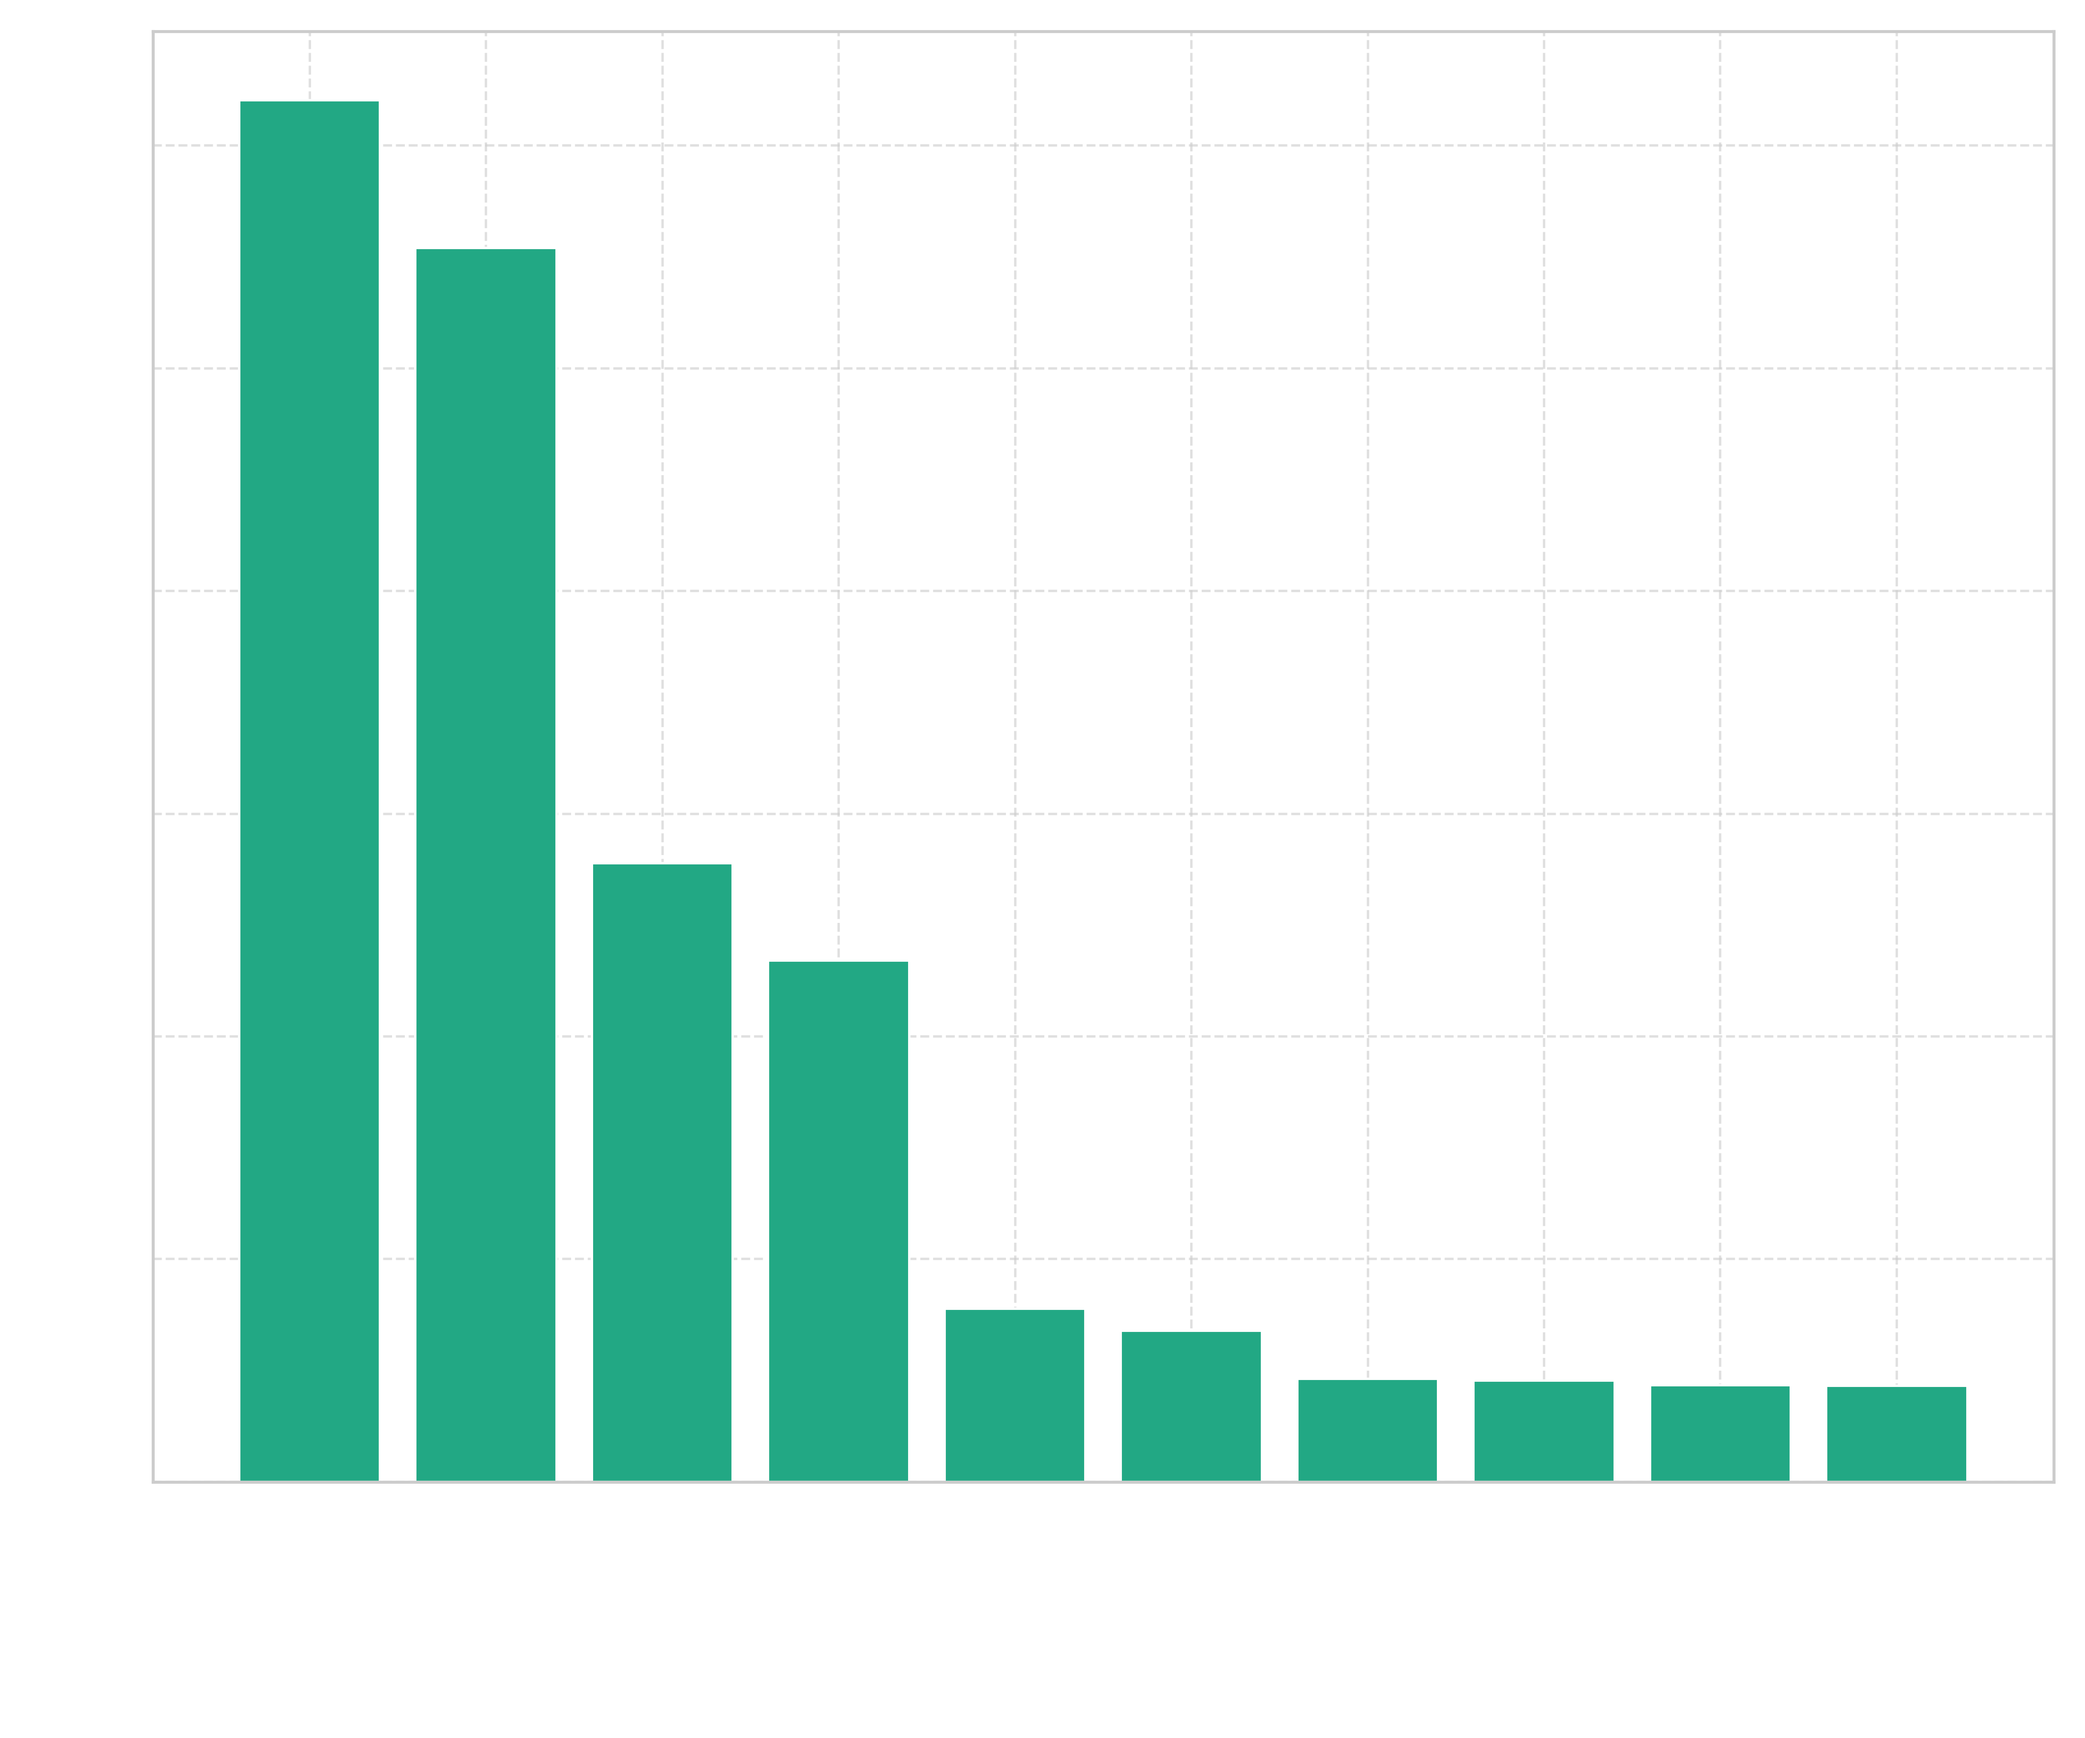
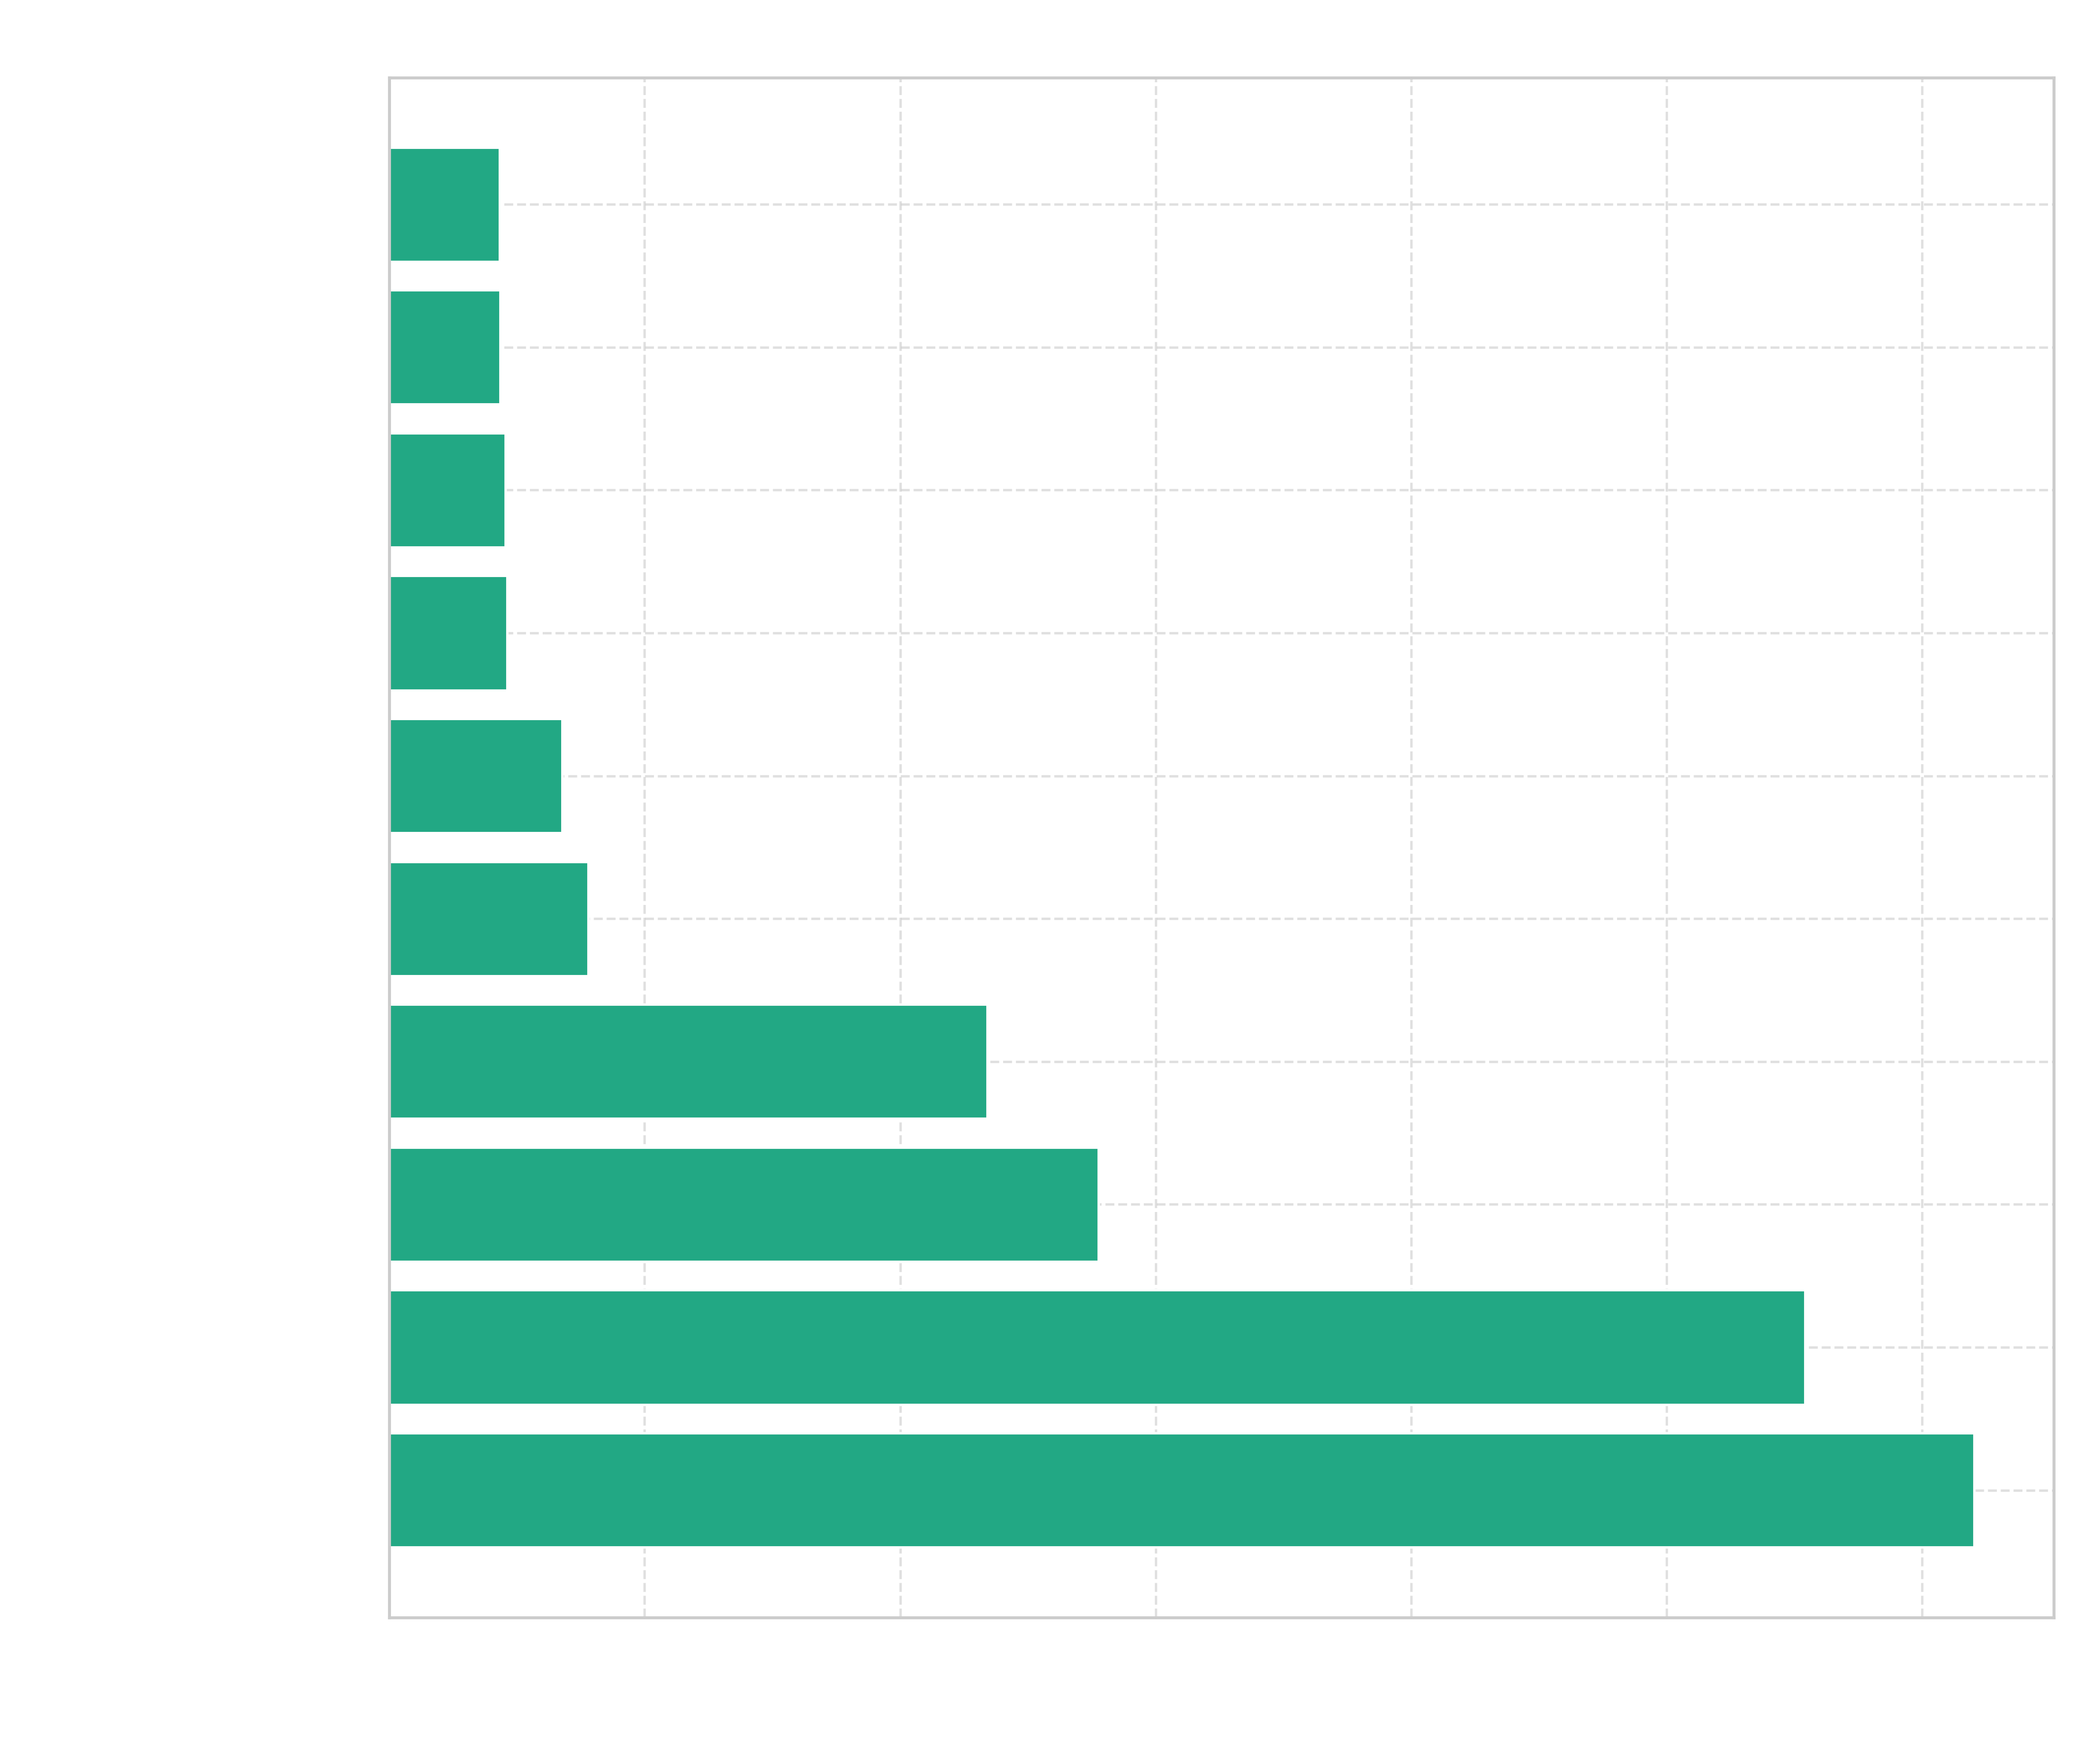
added plotting of shortest paths and other evaluation results in analysis

diff --git a/analysis/kg_analysis_pipeB.py b/analysis/kg_analysis_pipeB.py
@@ -1,34 +1,36 @@
 from utils.kg_utils import KnowledgeGraph
 import matplotlib.pyplot as plt
 import seaborn as sns
+from collections import Counter
 
 kg = KnowledgeGraph()
 
-#kg.query("""
-#CALL gds.graph.project(
-#  'pipeB_graph',
-#  '*',
-#  '*')
-#  """)
+#Only outcomment this when you run the script the first time
+kg.query("""
+CALL gds.graph.project(
+  'my_graph',
+  '*',
+  '*')
+  """)
 
 ## BETWEENNESS CENTRALITY
 #gds.util.asNode(nodeId).section_title, gds.util.asNode(nodeId).id, gds.util.asNode(nodeId).name .. page_title
 btw_central_list_section = kg.query("""
-CALL gds.betweenness.stream('pipeB_graph')
+CALL gds.betweenness.stream('my_graph')
 YIELD nodeId, score
 RETURN coalesce(gds.util.asNode(nodeId).section_title) AS node, score
 ORDER BY score DESC;
 """)
 
 btw_central_list_node = kg.query("""
-CALL gds.betweenness.stream('pipeB_graph')
+CALL gds.betweenness.stream('my_graph')
 YIELD nodeId, score
 RETURN coalesce(gds.util.asNode(nodeId).id) AS node, score
 ORDER BY score DESC;
 """)
 
 btw_central_list_page = kg.query("""
-CALL gds.betweenness.stream('pipeB_graph')
+CALL gds.betweenness.stream('my_graph')
 YIELD nodeId, score
 RETURN coalesce(gds.util.asNode(nodeId).page_title) AS node, score
 ORDER BY score DESC;
@@ -78,32 +80,33 @@ axes[1].tick_params(axis='x', rotation=45)
 
 """
 
-axes.bar(node_short_nodes, node_short_scores, color = colors[2])
-axes.set_xlabel('Nodes', fontsize=14, color='white')
-axes.set_ylabel('Betweenness Centrality', fontsize=14, color='white')
+axes.barh(node_short_nodes, node_short_scores, color = colors[2])
+axes.set_ylabel('Nodes', fontsize=14, color='white')
+axes.set_xlabel('Betweenness Centrality', fontsize=14, color='white')
 axes.grid(alpha=0.6, linestyle='--')
-axes.set_xticklabels(node_short_nodes, color='white')
-axes.set_yticklabels([round(node) for node in node_short_scores[::-1]], color='white')
-axes.tick_params(axis='x', rotation=45)
+axes.set_title("Betweenness Centrality of auto. generated nodes", color='white', fontsize=18)
+axes.set_yticklabels(node_short_nodes, color='white', fontsize=16)
+axes.set_xticklabels([round(node) for node in node_short_scores[::-1]], color='white')
+axes.tick_params(axis='x')
 
 plt.tight_layout()
-plt.savefig('nodes_btw_centrality_pipeB.png', dpi=300, transparent=True)
+plt.savefig('nodes_btw_centrality_pipeC.png', dpi=300, transparent=True)
 
 ## AVG SHORTEST PATH LENGTH
 avg_shortest_path_len = kg.query("""
-CALL gds.allShortestPaths.stream('pipeB_graph')
+CALL gds.allShortestPaths.stream('my_graph')
 YIELD sourceNodeId, targetNodeId, distance
 RETURN avg(distance) AS avgPathLength;
 """)
 
 max_shortest_path_len = kg.query("""
-CALL gds.allShortestPaths.stream('pipeB_graph')
+CALL gds.allShortestPaths.stream('my_graph')
 YIELD sourceNodeId, targetNodeId, distance
 RETURN max(distance) AS avgPathLength;
 """)
 
 shortest_paths = kg.query("""
-CALL gds.allShortestPaths.stream('pipeB_graph')
+CALL gds.allShortestPaths.stream('my_graph')
 YIELD sourceNodeId, targetNodeId, distance
 RETURN coalesce(gds.util.asNode(sourceNodeId).id, gds.util.asNode(sourceNodeId).section_title, gds.util.asNode(sourceNodeId).page_title) as node, coalesce(gds.util.asNode(targetNodeId).id, gds.util.asNode(targetNodeId).section_title, gds.util.asNode(targetNodeId).page_title) as target_node, distance
 ORDER BY distance DESC
@@ -137,50 +140,71 @@ RETURN s1.section_title as node, s2.section_title as target_node, length(path) A
 node_pairs = [str(node['node'])+" ---- "+str(node['target_node'])  for node in shortest_paths if node['node']!=None and node['target_node']!=None]
 distances = [node['distance'] for node in shortest_paths if node['node']!=None and node['target_node']!=None]
 node_pairs_nodes = [str(node['node'])+" ---- "+str(node['target_node'])  for node in shortest_paths_nodes if node['node']!=None and node['target_node']!=None]
+total_value_counts = Counter(distances)
 distances_nodes = [node['distance'] for node in shortest_paths_nodes if node['node']!=None and node['target_node']!=None]
+node_value_counts = Counter(distances_nodes)
 node_pairs_sections = [str(node['node'])+" ---- "+str(node['target_node'])  for node in shortest_paths_sections if node['node']!=None and node['target_node']!=None]
 distances_sections = [node['distance'] for node in shortest_paths_sections if node['node']!=None and node['target_node']!=None]
+section_value_counts = Counter(distances_sections)
 node_pairs_pages = [str(node['node'])+" ---- "+str(node['target_node'])  for node in shortest_paths_pages if node['node']!=None and node['target_node']!=None]
 distances_pages = [node['distance'] for node in shortest_paths_pages if node['node']!=None and node['target_node']!=None]
+page_value_counts = Counter(distances_pages)
 
 #Plotting
 colors = sns.color_palette("viridis", 4)
 fig2, axes = plt.subplots(nrows=2, ncols=2, figsize=(12, 10))
 
-axes[0][0].hist(distances, color = colors[0], bins=10)
+axes[0][0].bar(list(total_value_counts.keys()), list(total_value_counts.values()), color = colors[0])
 axes[0][0].set_ylabel('Frequency', fontsize=14, color='white')  # Adjust ylabel to 'Frequency'
-axes[0][0].set_xlabel('Shortest Path Lengths', fontsize=14, color='white')
+axes[0][0].set_xlabel('Shortest path lengths btw. all nodes', fontsize=14, color='white')
 axes[0][0].grid(alpha=0.6, linestyle='--')
 axes[0][0].tick_params(axis='x', colors='white')
 axes[0][0].tick_params(axis='y', colors='white')
-axes[0][0].set_title(title='Shortest Paths btw all Node Pairs')
 
-axes[1][0].hist(distances_nodes, color = colors[1], bins=10)
+axes[1][0].bar(list(node_value_counts.keys()), list(node_value_counts.values()), color = colors[1])
 axes[1][0].set_ylabel('Frequency', fontsize=14, color='white')  # Adjust ylabel to 'Frequency'
-axes[1][0].set_xlabel('Shortest Path Lengths', fontsize=14, color='white')
+axes[1][0].set_xlabel('Shortest path lengths btw. auto. gen. nodes', fontsize=18, color='white')
 axes[1][0].grid(alpha=0.6, linestyle='--')
 axes[1][0].tick_params(axis='x', colors='white')
 axes[1][0].tick_params(axis='y', colors='white')
-axes[0][0].set_title(title='Shortest Paths btw all auto. detected Nodes')
 
-axes[1][1].hist(distances_sections, color = colors[2], bins=10)
+axes[1][1].bar(list(section_value_counts.keys()), list(section_value_counts.values()), color = colors[2])
 axes[1][1].set_ylabel('Frequency', fontsize=14, color='white')  # Adjust ylabel to 'Frequency'
-axes[1][1].set_xlabel('Shortest Path Lengths', fontsize=14, color='white')
+axes[1][1].set_xlabel('Shortest path lengths btw. section nodes', fontsize=18, color='white')
 axes[1][1].grid(alpha=0.6, linestyle='--')
 axes[1][1].tick_params(axis='x', colors='white')
 axes[1][1].tick_params(axis='y', colors='white')
-axes[0][0].set_title(title='Shortest Paths btw all Sections')
 
 axes[0][1].barh(node_pairs_pages, distances_pages, color = colors)
 axes[0][1].set_ylabel('Page Pairs', fontsize=14, color='white')  # Adjust ylabel to 'Frequency'
-axes[0][1].set_xlabel('Shortest Path Lengths', fontsize=14, color='white')
+axes[0][1].set_xlabel('Shortest path lengths btw. page nodes', fontsize=18, color='white')
 axes[0][1].grid(alpha=0.6, linestyle='--')
 axes[0][1].tick_params(axis='x', colors='white')
 axes[0][1].tick_params(axis='y', colors='white')
-axes[0][0].set_title(title='Shortest Paths btw all Pages')
 
 plt.tight_layout()
-plt.savefig('shortest_paths_pipeB.png', dpi=300, transparent=True)
+plt.savefig('shortest_paths_pipeC.png', dpi=300, transparent=True)
 
-print(f"Avg. shortest path length: {avg_shortest_path_len}")
-print(f"Max shortest path length{max_shortest_path_len}")
+
+m = kg.query("""
+    MATCH ()-[r]->()
+    RETURN count(r) AS numberOfEdges""")
+
+n = kg.query("""
+    MATCH (n)
+    RETURN count(n) AS value""")
+
+m_auto_only = kg.query("""
+    MATCH (a)-[r]->(b)
+    WHERE NOT a:Page AND NOT a:Section AND NOT a:Category
+      AND NOT b:Page AND NOT b:Section AND NOT b:Category
+    RETURN count(r) AS numberOfEdges
+""")
+
+print(f"Avg. shortest path length total: {avg_shortest_path_len}")
+print(f"Avg. shortest path length auto nodes: {sum(distances_nodes)/len(distances_nodes)}")
+print(f"Avg. shortest path length sections: {sum(distances_sections)/len(distances_sections)}")
+print(f"Max shortest path length total: {max_shortest_path_len}")
+print(f"Number edges:{m}")
+print(f"Number nodes:{n}")
+print(f"Number of edges between auto generated nodes: {m_auto_only}")

diff --git a/analysis/eval_data_analysis.py b/analysis/eval_data_analysis.py
@@ -1,0 +1,64 @@
+import pandas as pd
+import matplotlib.pyplot as plt
+import seaborn as sns
+import csv
+from nltk.corpus import stopwords
+import spacy
+from nltk.util import ngrams
+from collections import Counter
+
+nlp = spacy.load("de_core_news_sm")
+german_stop_words = stopwords.words('german')
+
+input_csv = open("../data/04_eval/selected_eval_embedded_chunks.csv")
+reader = csv.DictReader(input_csv)
+
+na = 0
+tokens_per_section = []
+i = 0
+for row in reader:
+    section = row["section"]
+    doc = nlp(section)
+    section_tokens = [token.text for token in doc]
+    tokens_per_section.append(section_tokens)
+
+
+flattened_tokens = [token for token_list in tokens_per_section for token in token_list]
+filtered_tokens = [word.lower() for word in flattened_tokens if word.isalpha() and word.lower() not in german_stop_words]
+
+# Specify the desired n-gram size
+n = 2
+
+# Compute n-grams
+n_grams = list(ngrams(filtered_tokens, n))
+
+# Count the occurrences of each n-gram
+n_gram_counts = Counter(n_grams)
+
+# Display the most common n-grams
+print(f"Most common {n}-grams:")
+i = 0
+for n_gram, count in n_gram_counts.most_common():
+    print(f"{n_gram}: {count}")
+    i+=1
+    if count < 2:
+        break
+
+#Plot most common ngrams
+# Create a DataFrame for visualization
+top_ngrams = n_gram_counts.most_common(10)
+df_top_ngrams = pd.DataFrame(top_ngrams, columns=['N-gram', 'Count'])
+
+colors = sns.color_palette("viridis", 4)
+plt.figure(figsize=(10, 6))
+plt.barh([str(ngram) for ngram in df_top_ngrams['N-gram']], df_top_ngrams['Count'], color=colors)
+plt.title(f'Most Common {n}-grams', color='white')
+plt.xlabel('Count', fontsize=14, color='white')
+plt.xticks(ha='right', color='white')  # Rotate x-axis labels for better readability
+plt.yticks(color='white')
+plt.grid(alpha=0.6, linestyle='--')
+plt.tight_layout()
+
+# Save the plot
+plt.savefig('eval_data_1grams.png', dpi=300, transparent=True)
+
